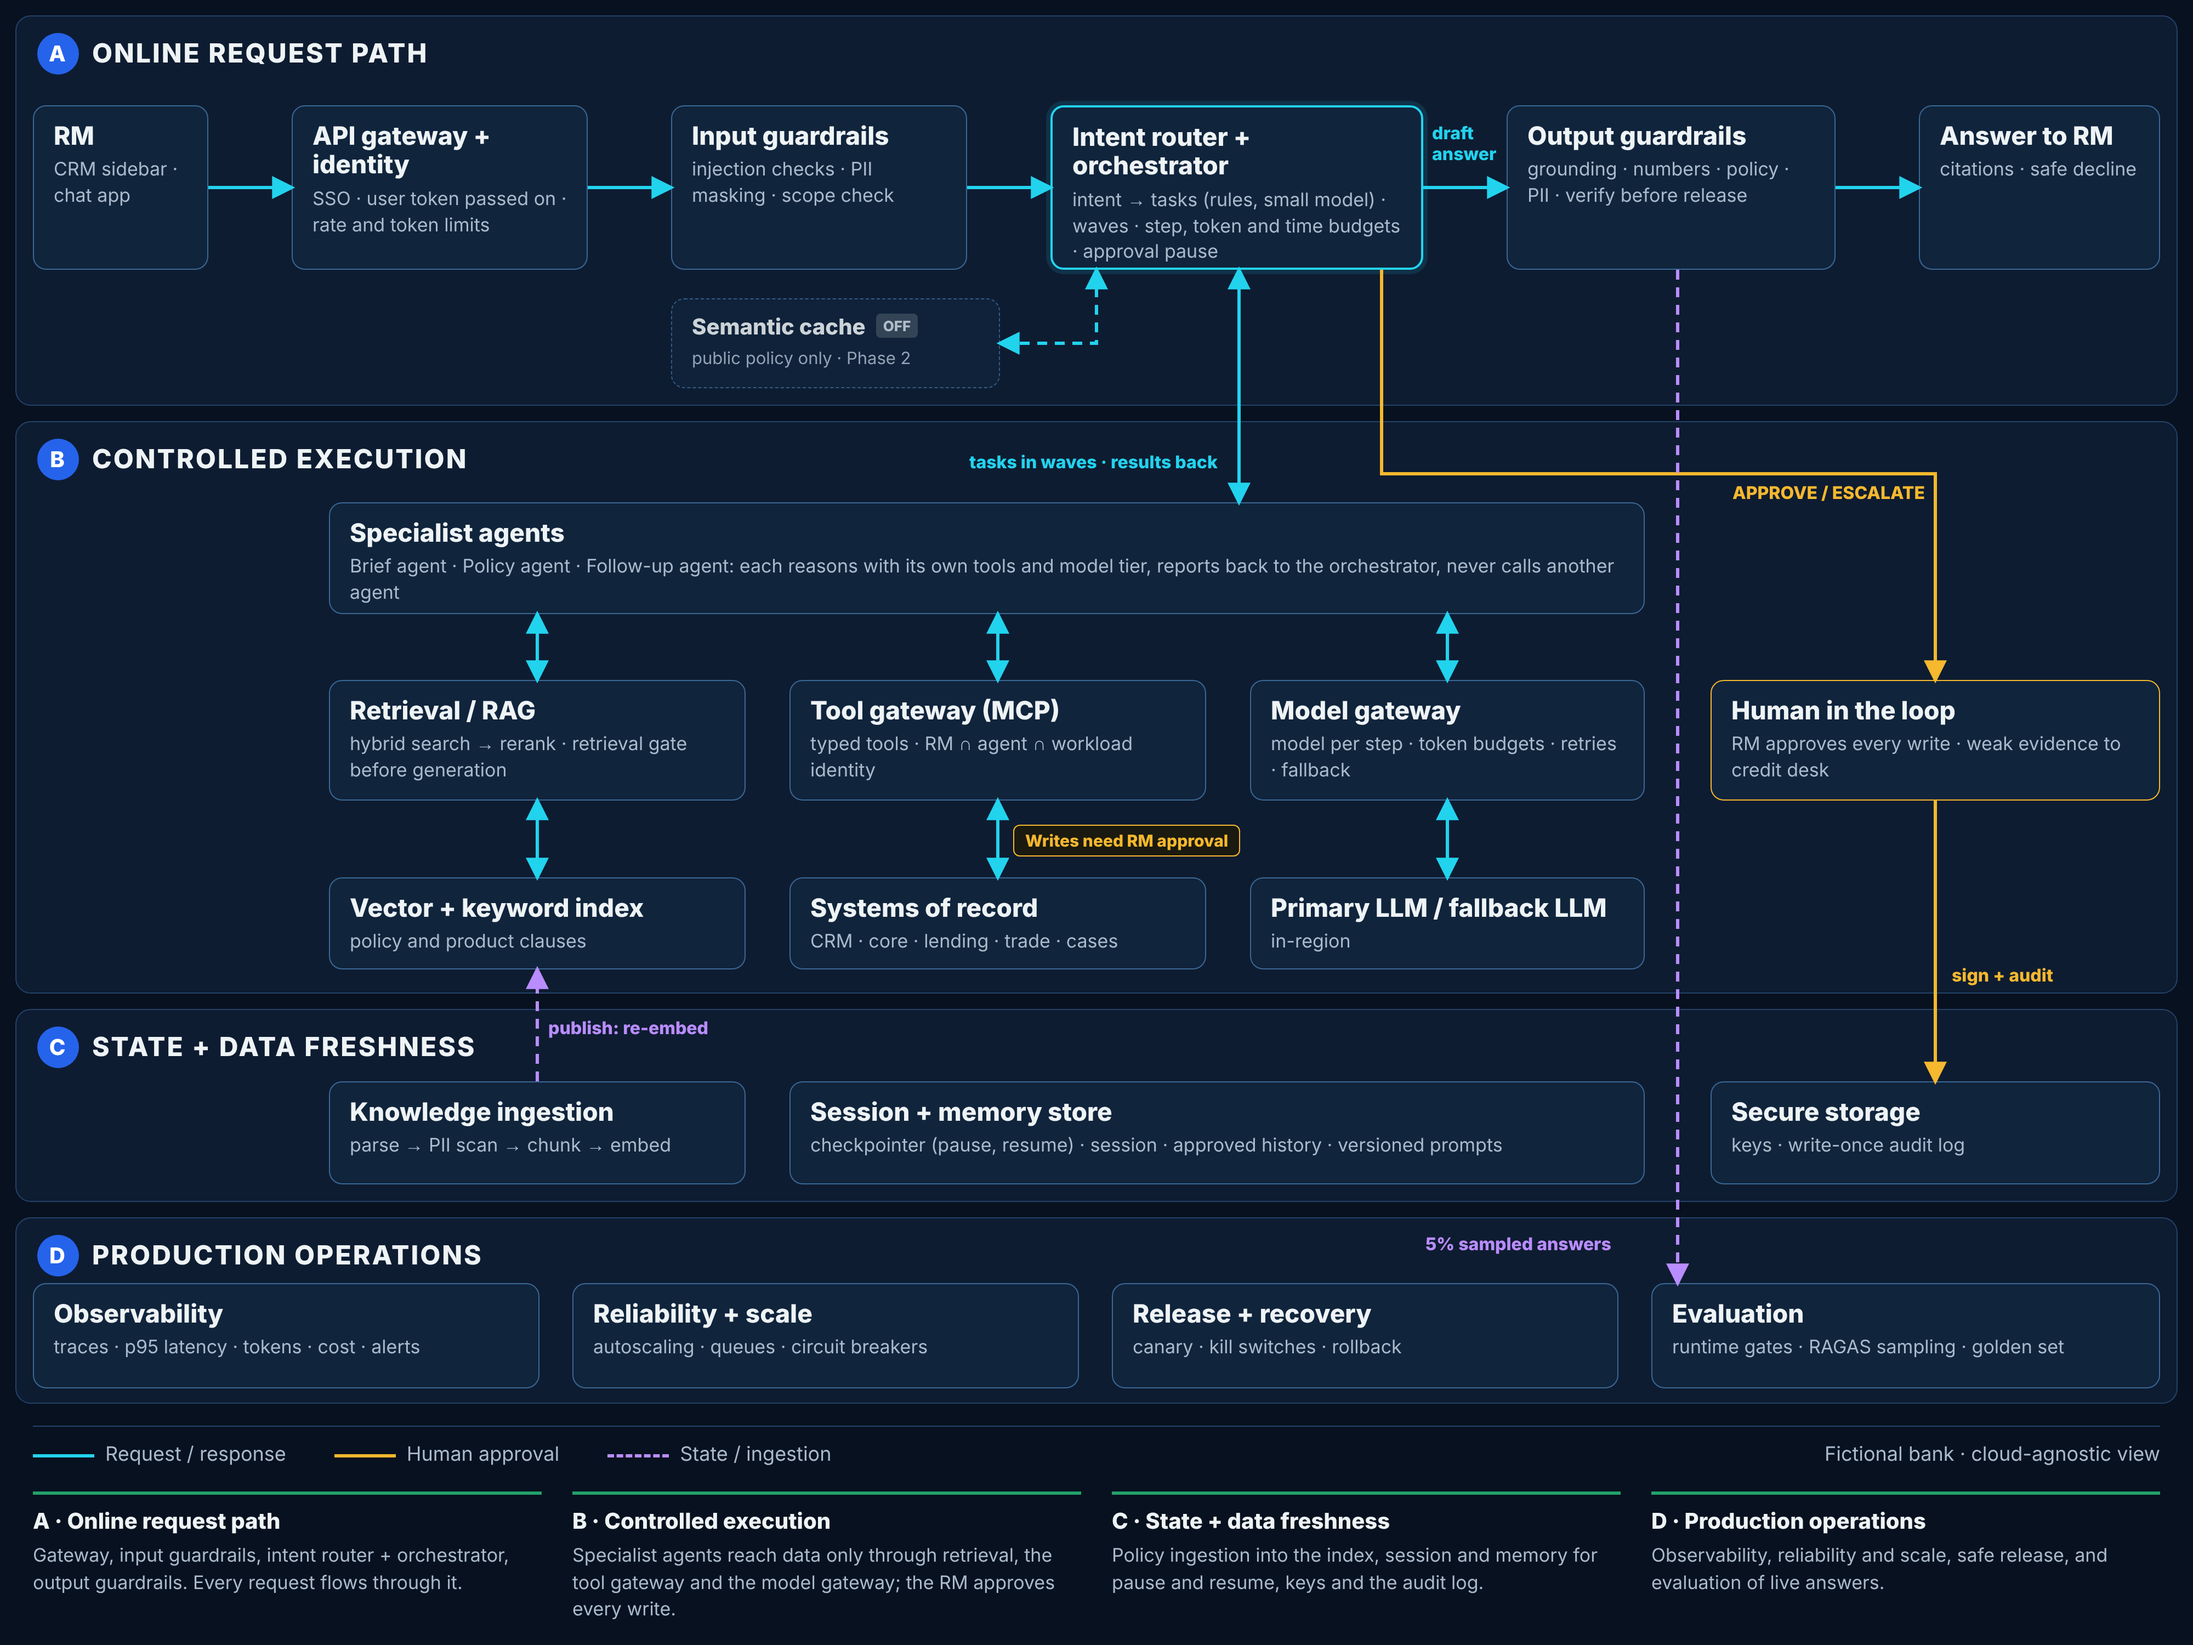
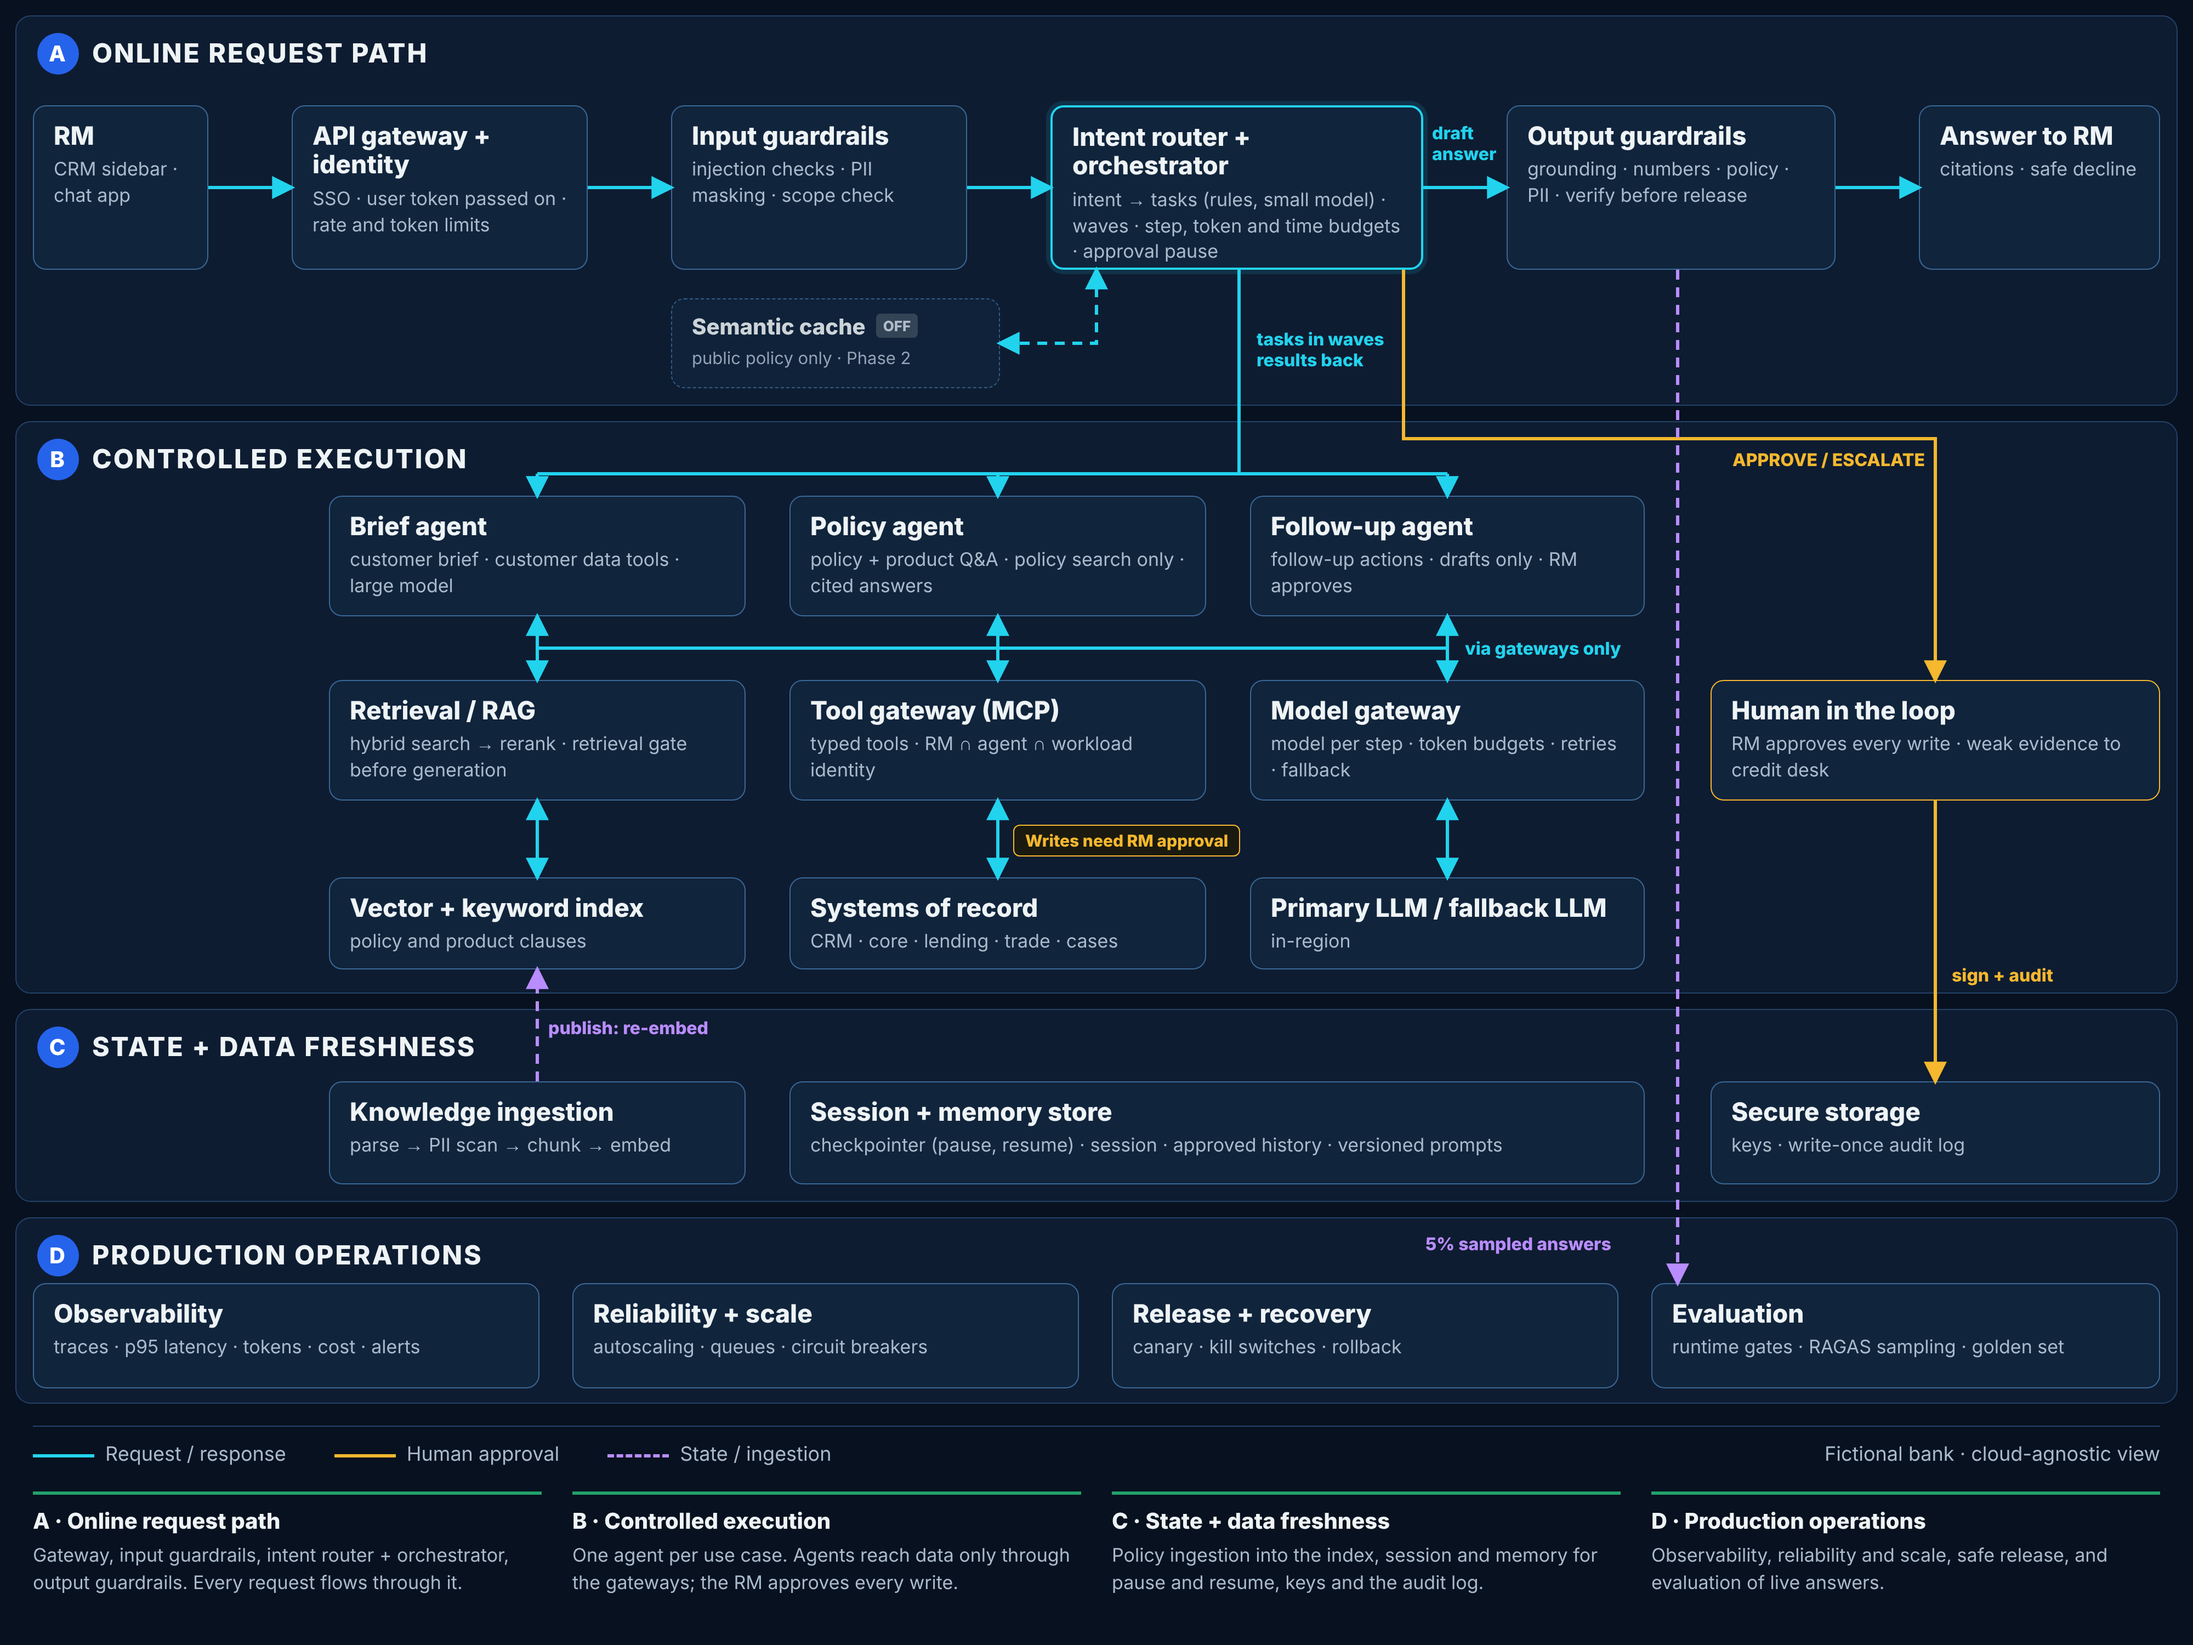
Simple HLD: show the brief, policy and follow-up agents as separate nodes
Claude-Session: https://claude.ai/code/session_017mnFTtgPUTPw2EMPKevzKD

diff --git a/docs/architecture/diagrams/simple-hld/simple-hld.html b/docs/architecture/diagrams/simple-hld/simple-hld.html
@@ -44,7 +44,9 @@ svg { position:absolute; left:0; top:0; pointer-events:none; }
 <div class="lbl c" style="left:1306px;top:112px">draft<br>answer</div>
 
 <!-- lane B -->
-<div class="b" style="left:300px;top:458px;width:1200px;height:102px"><div class="t">Specialist agents</div><div class="d">Brief agent · Policy agent · Follow-up agent: each reasons with its own tools and model tier, reports back to the orchestrator, never calls another agent</div></div>
+<div class="b" style="left:300px;top:452px;width:380px;height:110px"><div class="t">Brief agent</div><div class="d">customer brief · customer data tools · large model</div></div>
+<div class="b" style="left:720px;top:452px;width:380px;height:110px"><div class="t">Policy agent</div><div class="d">policy + product Q&amp;A · policy search only · cited answers</div></div>
+<div class="b" style="left:1140px;top:452px;width:360px;height:110px"><div class="t">Follow-up agent</div><div class="d">follow-up actions · drafts only · RM approves</div></div>
 <div class="b" style="left:300px;top:620px;width:380px;height:110px"><div class="t">Retrieval / RAG</div><div class="d">hybrid search → rerank · retrieval gate before generation</div></div>
 <div class="b" style="left:720px;top:620px;width:380px;height:110px"><div class="t">Tool gateway (MCP)</div><div class="d">typed tools · RM ∩ agent ∩ workload identity</div></div>
 <div class="b" style="left:1140px;top:620px;width:360px;height:110px"><div class="t">Model gateway</div><div class="d">model per step · token budgets · retries · fallback</div></div>
@@ -65,8 +67,9 @@ svg { position:absolute; left:0; top:0; pointer-events:none; }
 <div class="b" style="left:1014px;top:1170px;width:462px;height:96px"><div class="t">Release + recovery</div><div class="d">canary · kill switches · rollback</div></div>
 <div class="b" style="left:1506px;top:1170px;width:464px;height:96px"><div class="t">Evaluation</div><div class="d">runtime gates · RAGAS sampling · golden set</div></div>
 
-<div class="lbl c" style="left:884px;top:412px">tasks in waves · results back</div>
-<div class="lbl a" style="left:1580px;top:440px">APPROVE / ESCALATE</div>
+<div class="lbl c" style="left:1146px;top:300px">tasks in waves<br>results back</div>
+<div class="lbl c" style="left:1336px;top:582px">via gateways only</div>
+<div class="lbl a" style="left:1580px;top:410px">APPROVE / ESCALATE</div>
 <div class="lbl a" style="left:1780px;top:880px">sign + audit</div>
 <div class="lbl v" style="left:500px;top:928px">publish: re-embed</div>
 <div class="lbl v" style="left:1300px;top:1125px">5% sampled answers</div>
@@ -76,7 +79,7 @@ svg { position:absolute; left:0; top:0; pointer-events:none; }
 <div class="legend"><span><i style="border-color:var(--cyan)"></i>Request / response</span><span><i style="border-color:var(--amber)"></i>Human approval</span><span><i style="border-color:var(--violet);border-top-style:dashed"></i>State / ingestion</span><span style="margin-left:auto">Fictional bank · cloud-agnostic view</span></div>
 <div class="caps">
 <div><b>A · Online request path</b>Gateway, input guardrails, intent router + orchestrator, output guardrails. Every request flows through it.</div>
-<div><b>B · Controlled execution</b>Specialist agents reach data only through retrieval, the tool gateway and the model gateway; the RM approves every write.</div>
+<div><b>B · Controlled execution</b>One agent per use case. Agents reach data only through the gateways; the RM approves every write.</div>
 <div><b>C · State + data freshness</b>Policy ingestion into the index, session and memory for pause and resume, keys and the audit log.</div>
 <div><b>D · Production operations</b>Observability, reliability and scale, safe release, and evaluation of live answers.</div>
 </div>
@@ -87,16 +90,18 @@ const W = [
  [[[190,171],[266,171]],'c'], [[[536,171],[612,171]],'c'], [[[882,171],[958,171]],'c'],
  [[[1298,171],[1374,171]],'c'], [[[1674,171],[1750,171]],'c'],
  [[[1000,246],[1000,313],[912,313]],'c',1,1],                       // router <-> cache
- [[[1130,246],[1130,458]],'c',0,1],                                 // router <-> agents
- [[[490,560],[490,620]],'c',0,1], [[[910,560],[910,620]],'c',0,1], [[[1320,560],[1320,620]],'c',0,1],
+ [[[1130,246],[1130,432]],'c',0,-1], [[[490,432],[1320,432]],'c',0,-1],      // orchestrator -> bus
+ [[[490,432],[490,452]],'c'], [[[910,432],[910,452]],'c'], [[[1320,432],[1320,452]],'c'],
+ [[[490,591],[1320,591]],'c',0,-1],                                     // agents -> gateways bus
+ [[[490,562],[490,620]],'c',0,1], [[[910,562],[910,620]],'c',0,1], [[[1320,562],[1320,620]],'c',0,1],
  [[[490,730],[490,800]],'c',0,1], [[[910,730],[910,800]],'c',0,1], [[[1320,730],[1320,800]],'c',0,1],
- [[[1260,246],[1260,432],[1765,432],[1765,620]],'a'],               // orchestrator -> human in the loop
+ [[[1280,246],[1280,400],[1765,400],[1765,620]],'a'],               // orchestrator -> human in the loop
  [[[1765,730],[1765,986]],'a'],                                     // sign + audit
  [[[490,986],[490,884]],'v',1],                                     // ingestion -> index
  [[[1530,246],[1530,1170]],'v',1],                                  // output -> evaluation (sampled)
 ];
 const col = {c:'#22D3EE', a:'#F5B82E', v:'#B98DFF'};
 let s = '<defs>' + Object.entries(col).map(([k,v]) => `<marker id="m${k}" viewBox="0 0 10 10" refX="8.5" refY="5" markerWidth="7" markerHeight="7" orient="auto-start-reverse"><path d="M0,0L10,5L0,10z" fill="${v}"/></marker>`).join('') + '</defs>';
-for (const [p,k,d,b] of W) s += `<polyline points="${p.map(q=>q.join(',')).join(' ')}" fill="none" stroke="${col[k]}" stroke-width="3" ${d?'stroke-dasharray="9 7"':''} marker-end="url(#m${k})" ${b?`marker-start="url(#m${k})"`:''}/>`;
+for (const [p,k,d,b] of W) s += `<polyline points="${p.map(q=>q.join(',')).join(' ')}" fill="none" stroke="${col[k]}" stroke-width="3" ${d?'stroke-dasharray="9 7"':''} ${b===-1?'':`marker-end="url(#m${k})"`} ${b===1?`marker-start="url(#m${k})"`:''}/>`;
 document.getElementById('w').innerHTML = s;
 </script></body></html>
